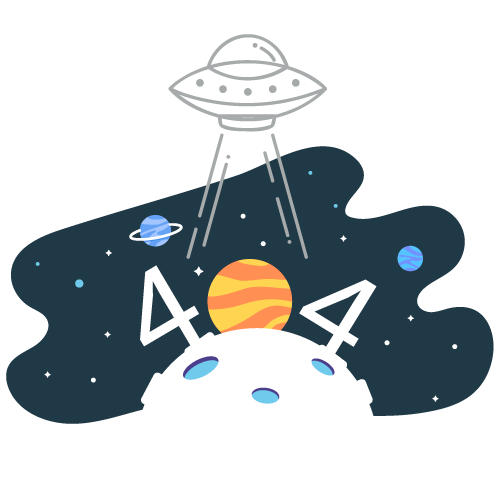
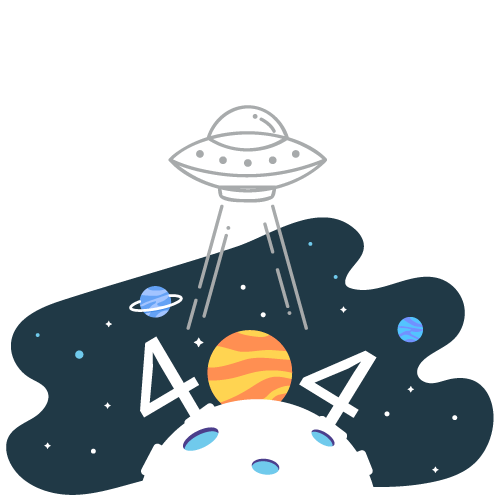
Add 404 page

diff --git a/src/containers/App/index.js b/src/containers/App/index.js
@@ -1,7 +1,7 @@
 import React, { useEffect } from 'react'
 import styled from 'styled-components'
 
-import { Route } from 'react-router-dom'
+import { Route, Switch } from 'react-router-dom'
 import routes from '../../routes'
 
 import { checkVersion } from '../../alphaWebService'
@@ -11,6 +11,7 @@ import Panel from '../Panel'
 import Main from '../../components/Main'
 import Hr from '../../components/Hr'
 import { Row } from '../../components/Layout'
+import NotFound from '../NotFound'
 
 import { connect } from 'react-redux';
 import { checkLogin } from '../../actions/user'
@@ -31,11 +32,14 @@ const App = ({ checkLogin }) => {
       <Header routes={routes} />
       <Hr vertical />
       <Main id='main'>
-        {
-          routes.map(({id, path, component, exact}) =>
-            <Route key={id} exact={exact} path={path} component={component} />
-          )
-        }
+        <Switch>
+          {
+            routes.map(({id, path, component, exact}) =>
+              <Route key={id} exact={exact} path={path} component={component} />
+            )
+          }
+          <Route path="*" component={NotFound} />
+        </Switch>
       </Main>
       <Hr vertical />
       <Panel />

diff --git a/src/containers/NotFound.js b/src/containers/NotFound.js
@@ -1,0 +1,17 @@
+import React from 'react'
+import { Link } from 'react-router-dom'
+import Image from '../components/Image'
+import Text from '../components/Text'
+import { Col } from '../components/Layout'
+import PageNotFoundImage from '../images/404.png'
+function NotFound() {
+  return (
+    <Col center centerVertical height={'80vh'}>
+      <Image source={PageNotFoundImage} size={'300px'} />
+      <Text XL note VS bold>OH MY GOSH! YOU FOUND IT!!!</Text>
+      <Text note>Looks like the page you're trying to visit doesn't exists.</Text>
+      <Text note>Please check the URL and try your luck again.</Text>
+    </Col>
+  )
+}
+export default NotFound;
